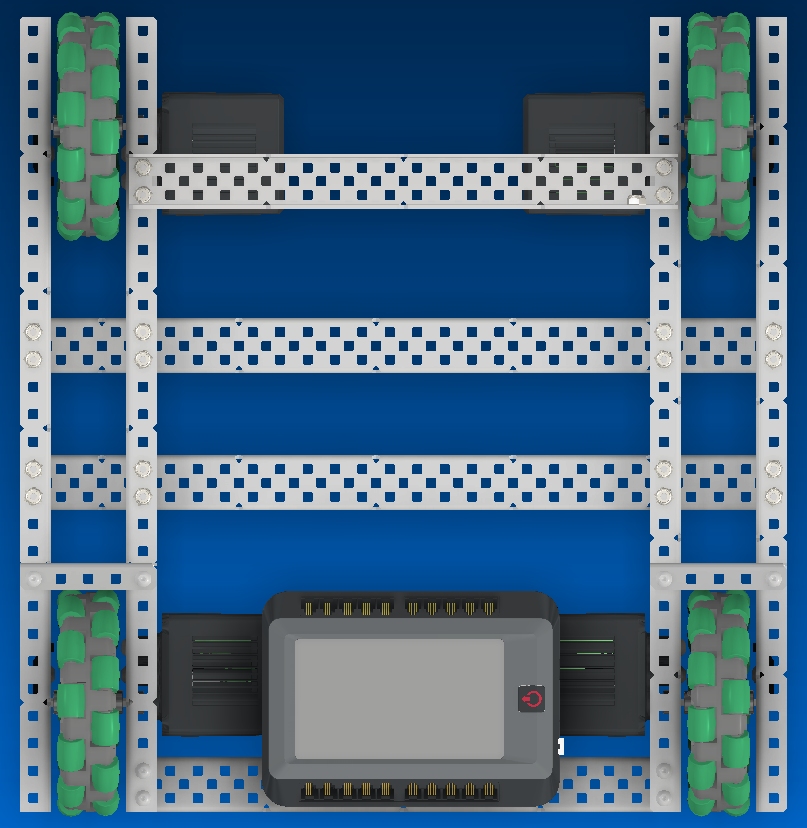
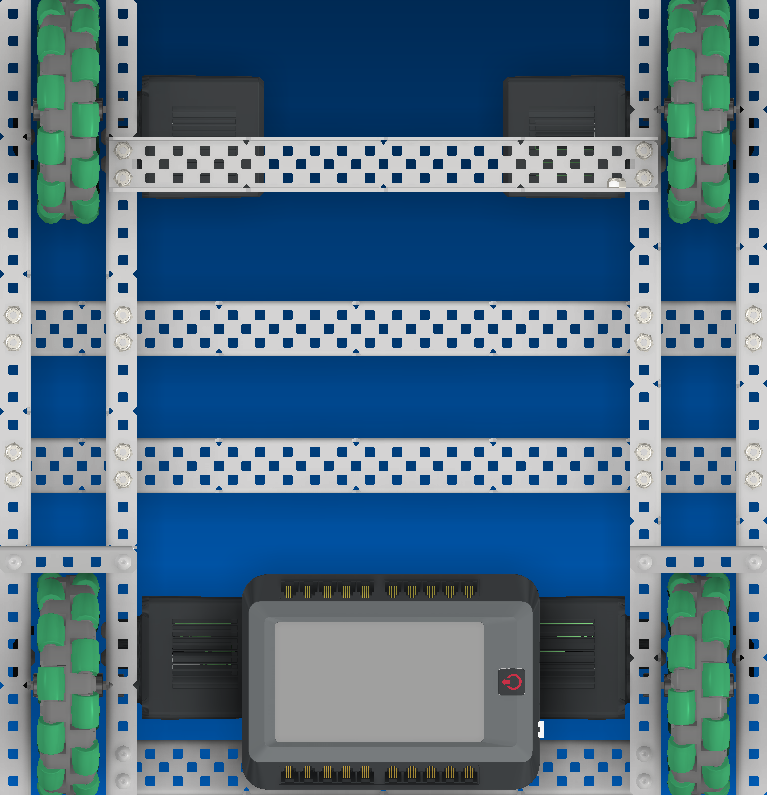
Functional

diff --git a/VexSim/main.cpp b/VexSim/main.cpp
@@ -1,0 +1,44 @@
+#include <SFML/Graphics.hpp>
+
+sf::Texture fieldTexture;
+sf::Texture robotTexture; 
+sf::Sprite fieldSprite;
+sf::Sprite robotSprite;
+
+const int WINDOW_WIDTH = 1000;
+const int WINDOW_HEIGHT = 700;
+
+int main() {
+    fieldTexture.loadFromFile("D:/Projects/AUBIE VEX/VexSim/Assets/Field2022.png");
+    robotTexture.loadFromFile("D:/Projects/AUBIE VEX/VexSim/Assets/tank.png");
+
+    fieldSprite.setTexture(fieldTexture);
+    robotSprite.setTexture(robotTexture);
+
+    fieldSprite.scale(1.1, 1.1);
+
+    //Namespace simulatorGUI
+    //Field class that sets size / auto scales
+    //Robot class thats sets image on field in units of inches/degrees
+
+    sf::RenderWindow window(sf::VideoMode(WINDOW_WIDTH, WINDOW_HEIGHT), "Aubie Vex Sim");
+
+
+    while (window.isOpen()) {
+        sf::Event event;
+        while (window.pollEvent(event))
+        {
+            if (event.type == sf::Event::Closed)
+                window.close();
+        }
+
+        window.clear();
+
+        window.draw(fieldSprite);
+//        window.draw(robotSprite);
+
+        window.display();
+    }
+
+    return 0;
+}

diff --git a/Simulator/v5.h b/Simulator/v5.h
@@ -1,6 +1,6 @@
 #ifndef ROBOT_V5_H
 #define ROBOT_V5_H
-#include "AUBIE-VEX-Core/robotmath.h"
+#include "robotmath.h"
 #include <vector>
 #include <iostream>
 const double wheelRadius = 3; //Inches

diff --git a/Simulator/BaseGUI.h b/Simulator/BaseGUI.h
@@ -1,0 +1,7 @@
+#pragma once
+
+namespace SimulatorGUI {
+
+
+
+};

diff --git a/Simulator/src/BaseGUI.cpp b/Simulator/src/BaseGUI.cpp
@@ -1,0 +1,2 @@
+#include "BaseGUI.h"
+
